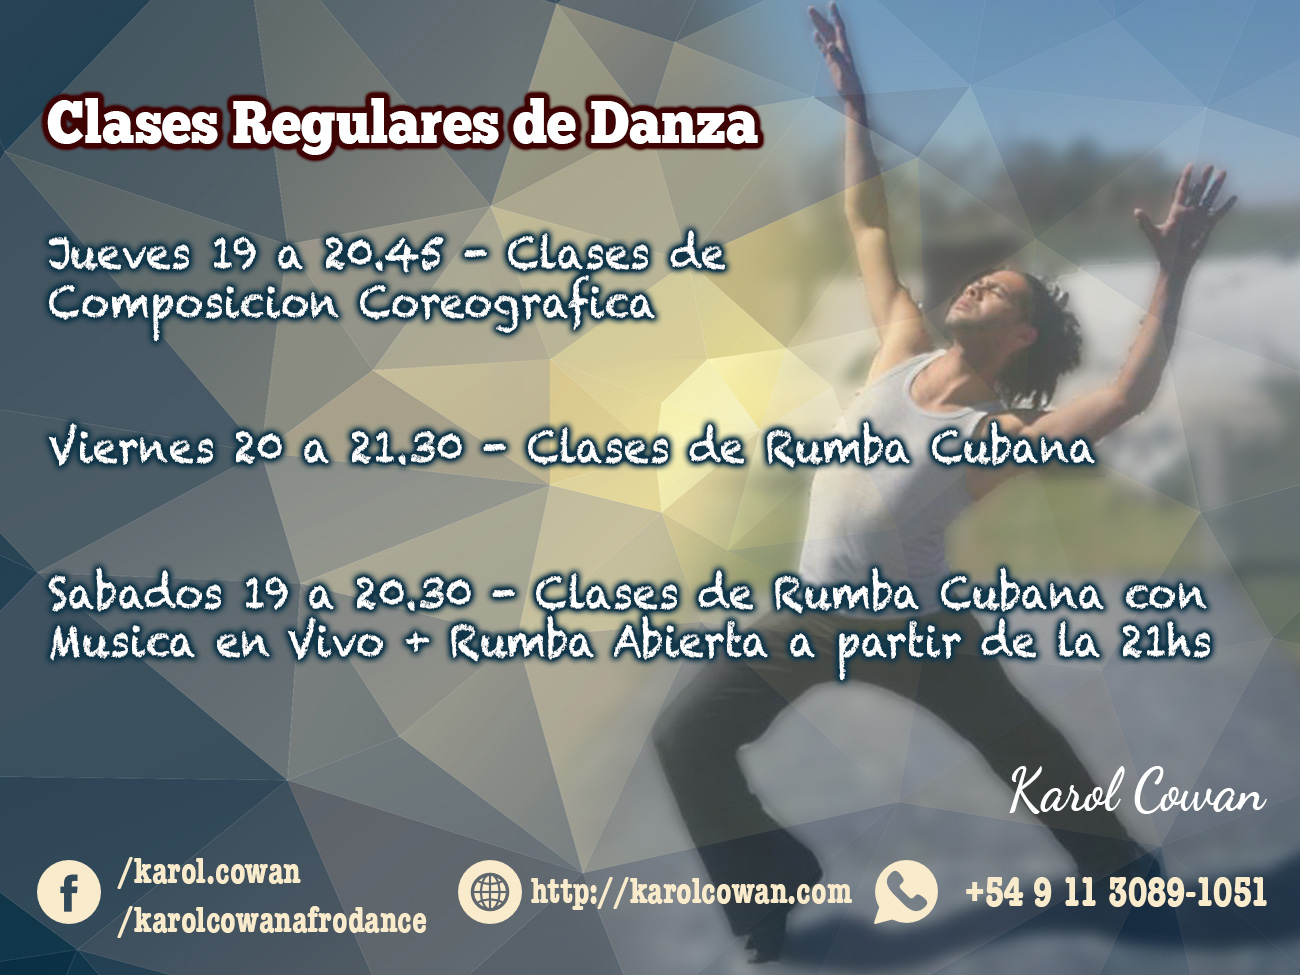
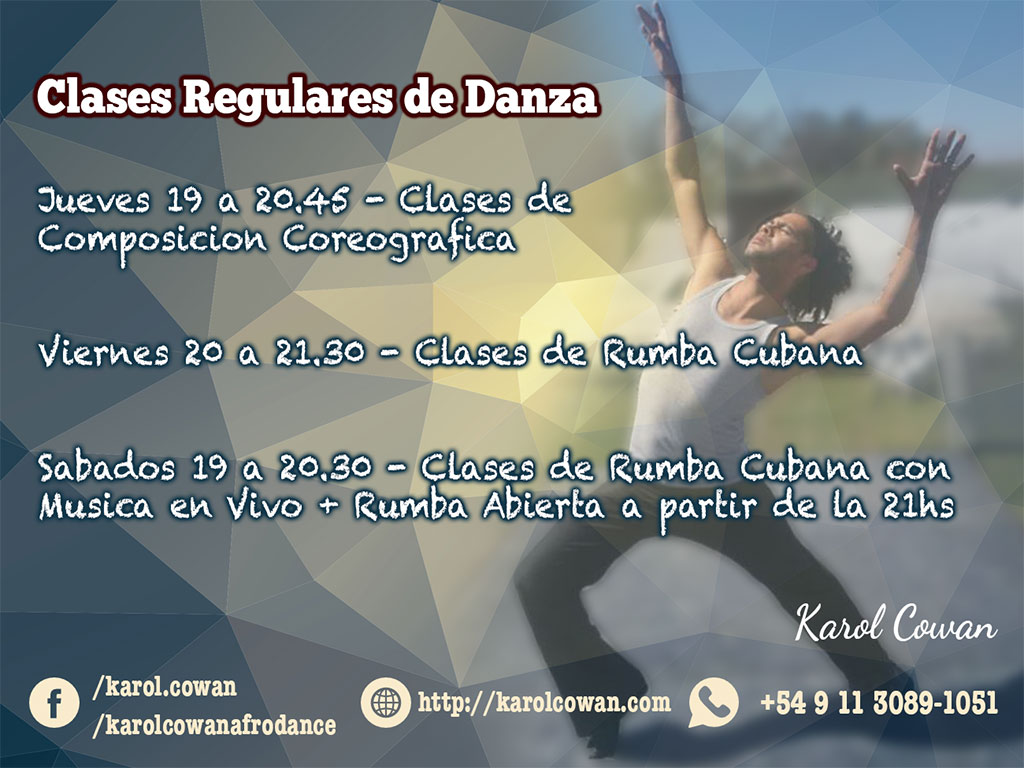
§

diff --git a/site/views/eventos/clases.html b/site/views/eventos/clases.html
@@ -10,8 +10,8 @@
         <meta property="og:description" content="Clases de Composicion Coreografica, Clases de Bailes Populares Cubanos, Rumba y sus géneros como El Guaguanco, Yambu y Columbia y Danzas Afrocubanas">
 
         <meta property="og:image" content="http://karolcowan.com/images/flyer_clases_marzo2017.jpg">
-        <meta property="og:image:width" content="1300"/>
-        <meta property="og:image:height" content="975"/>
+        <meta property="og:image:width" content="1024"/>
+        <meta property="og:image:height" content="768"/>
 
         <meta property="og:video" content="http://karolcowan.com/clases.mp4?t=12345?">
         <meta property="og:image:type" content="video/mp4" />
